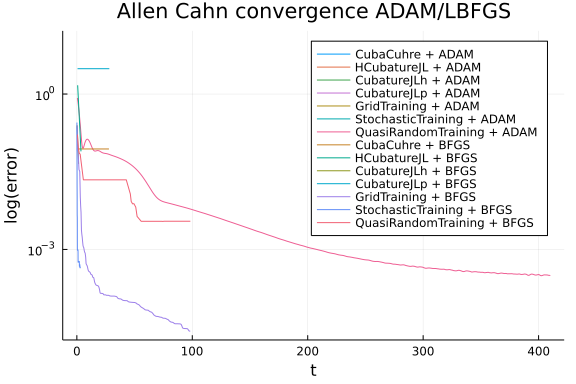
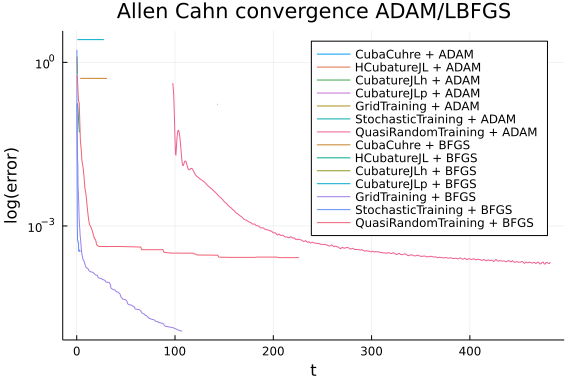
Automatic build\nPublished by build of: https://github.com/SciML/SciMLBenchmarks.jl/commit/61c047455ef7845709acad38f267d75462b74631

diff --git a/markdown/PINNErrorsVsTime/allen_cahn_et.md b/markdown/PINNErrorsVsTime/allen_cahn_et.md
@@ -78,7 +78,7 @@ function allen_cahn(strategy, minimizer, maxIters)
 
     ## NEURAL NETWORK
     n = 10   #neuron number
-    chain = Lux.Chain(Lux.Dense(5, n, Lux.σ), Lux.Dense(n, n, Lux.σ), Lux.Dense(n, 1))   #Neural network from OptimizationFlux library
+    chain = Lux.Chain(Lux.Dense(5, n, tanh), Lux.Dense(n, n, tanh), Lux.Dense(n, 1))   #Neural network from OptimizationFlux library
 
     indvars = [t, x1, x2, x3, x4]   #phisically independent variables
     depvars = [u(t, x1, x2, x3, x4)]       #dependent (target) variable
